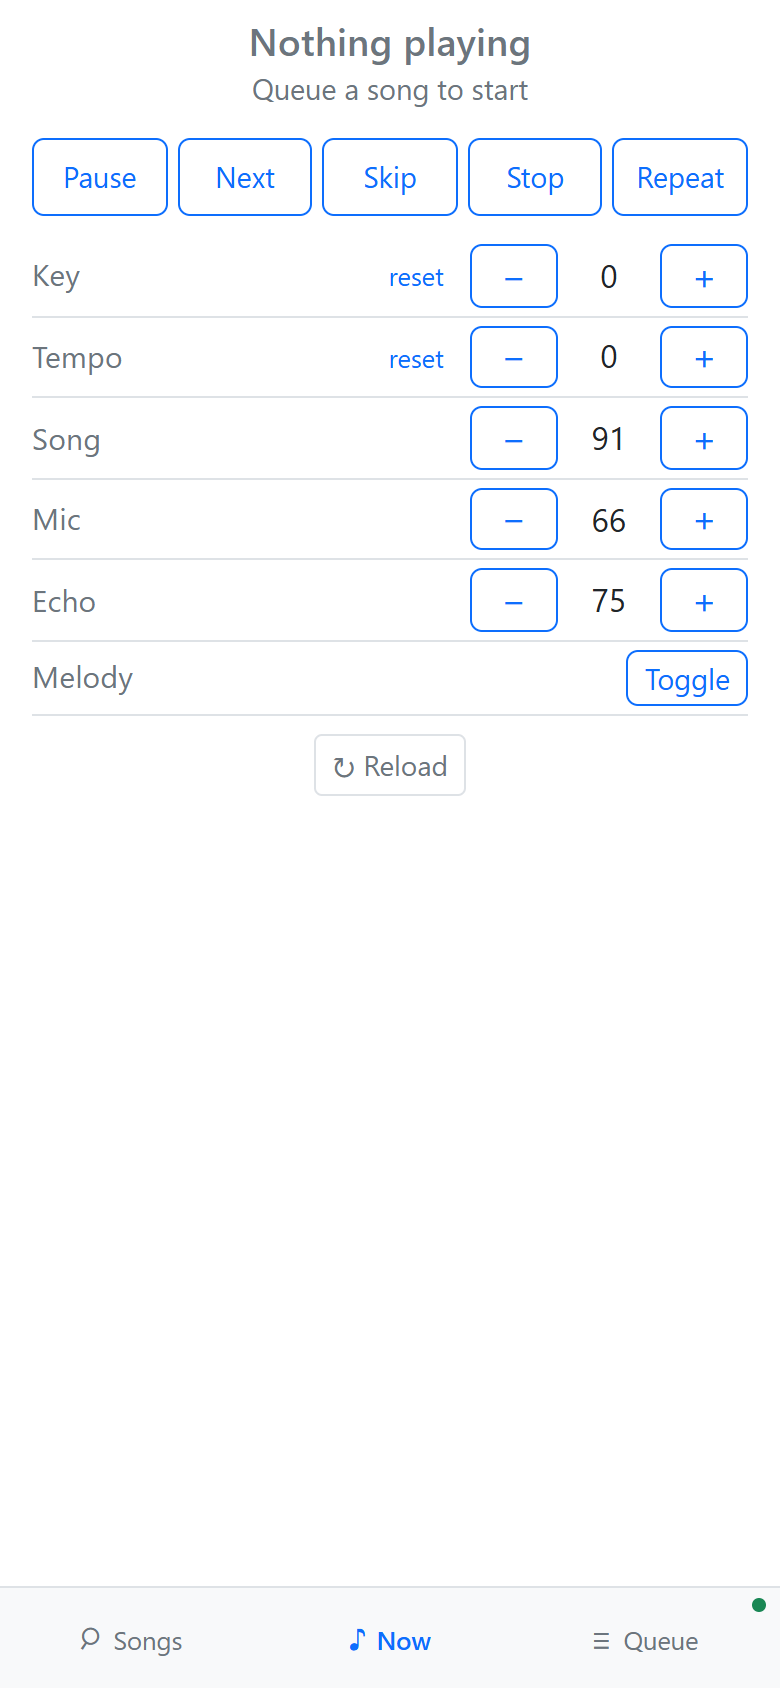
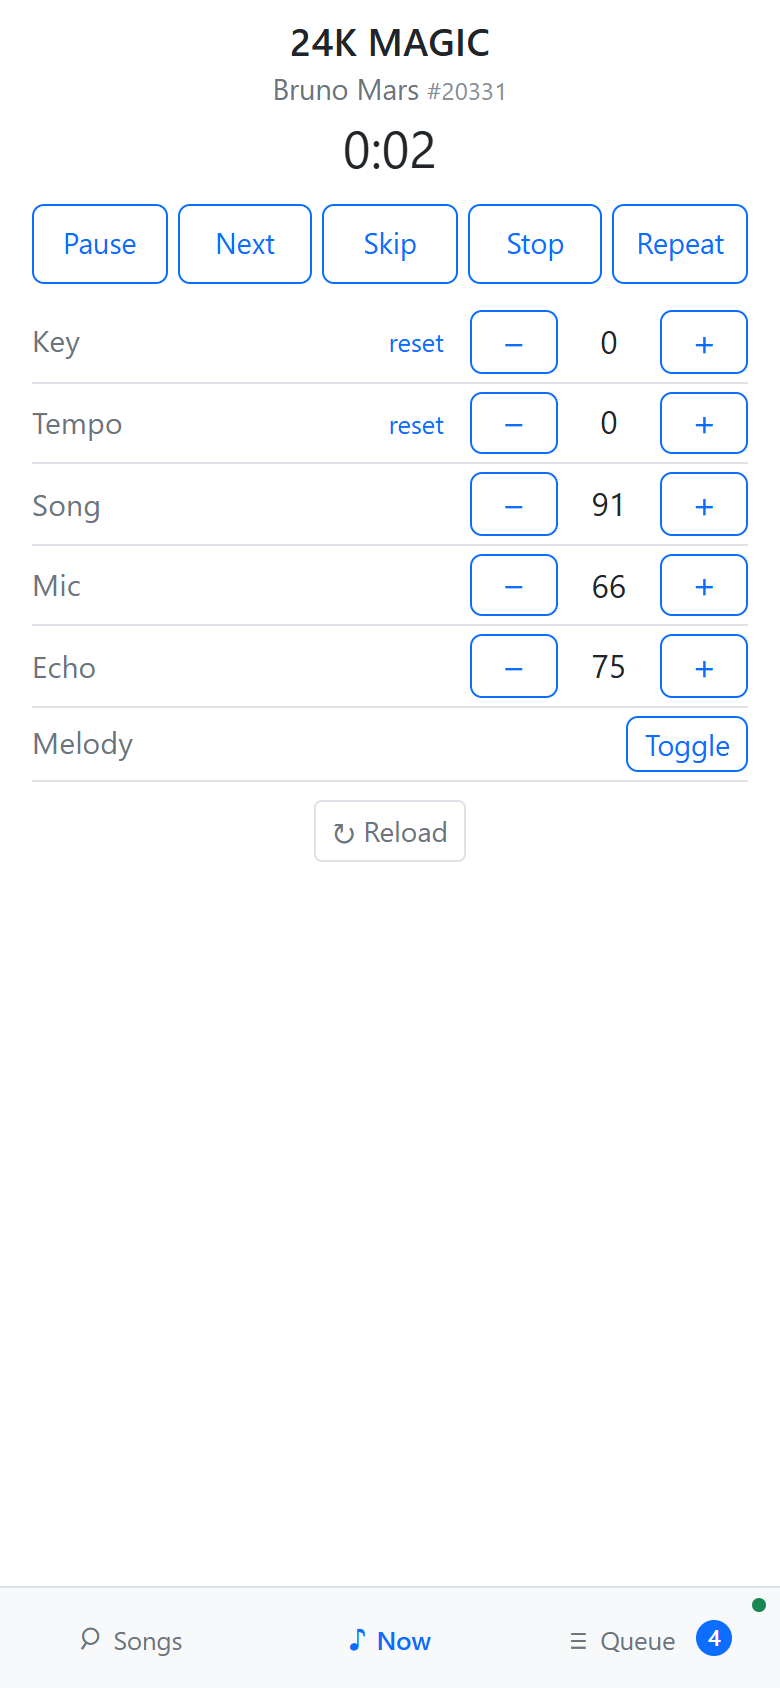
Show a playing song and a full queue in the README

diff --git a/README.md b/README.md
@@ -17,7 +17,7 @@ With it you can:
   <img src="docs/screenshots/search.png" width="190" alt="Searching the song list">
   <img src="docs/screenshots/artists.png" width="190" alt="The artist list">
   <img src="docs/screenshots/now.png" width="190" alt="Playback controls">
-  <img src="docs/screenshots/folder.png" width="190" alt="A favorites folder">
+  <img src="docs/screenshots/queue.png" width="190" alt="The queue">
 </p>
 
 ## Download
@@ -92,6 +92,7 @@ Tap **☆** on a song to put it in a favorites folder. Tap **★** at the top of
 Favorites are kept on each phone or computer, not on the unit.
 
 <p>
+  <img src="docs/screenshots/folder.png" width="190" alt="A favorites folder">
   <img src="docs/screenshots/share.png" width="190" alt="The QR code for a folder">
 </p>
 
